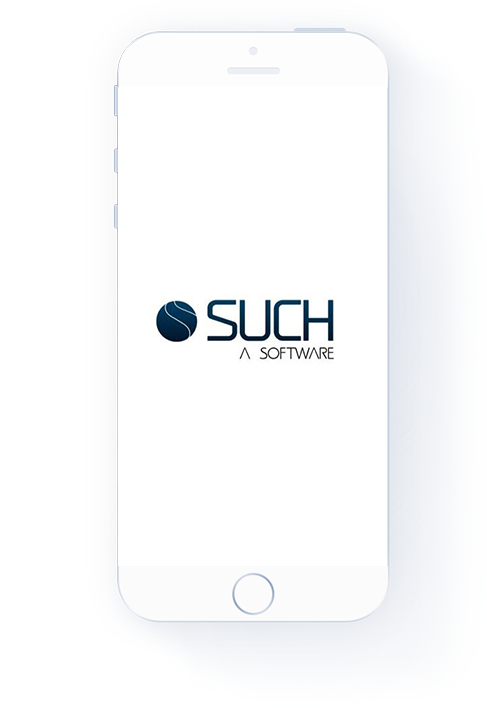
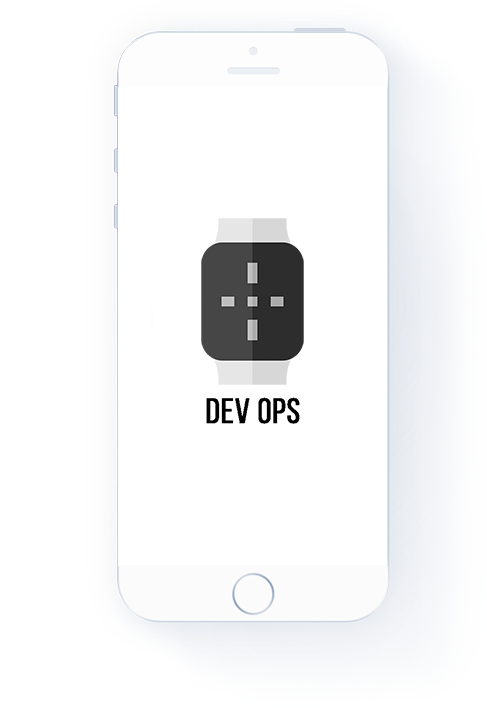
.

Changed region(s): [[0.308, 0.3107, 0.7084, 0.6215]]

diff --git a/src/app/components/template/products/products.component.html b/src/app/components/template/products/products.component.html
@@ -1,46 +1,45 @@
 <!--Section: Features v.3-->
 <div class="container-fluid team4">
-<section class="noMargin" id="products">
+  <section class="noMargin" id="products">
 
-    <div class="row pt-2" >
-  
+    <div class="row pt-2">
+
       <!--Grid column-->
       <div class="col-lg-5 text-center text-lg-left" id="laptop">
         <img src="assets/imgs/laptopSIS.png" alt="" class="img-fluid z-depth-0">
       </div>
       <!--Grid column-->
-  
+
       <!--Grid column-->
       <div class="col-lg-7" style="margin-top: 150px;">
         <!--Section heading-->
-        <h2 class="h2 py-1 font-weight-bold text-center">SIS Controladoras</h2>
+        <h2 class="h2 py-1 font-weight-bold text-center">Lorem ipsum</h2>
         <!--Section description-->
-        <p class="px-5 mb-5 pb-3 lead text-center">O SIS Controladoras é um Software ERP de gestão completo para Empresas
-            Controladoras de Pragas. Ele provê desde a prospecção de clientes, até a geração de boletos e notas fiscais e envio de
-        emails!</p>
-  
+        <p class="px-5 mb-5 pb-3 lead text-center">Lorem ipsum dolor sit amet, consectetur adipiscing elit. Cras
+          ullamcorper vel diam et varius. Suspendisse sed leo dictum, tincidunt mi id, varius massa.</p>
+
         <!--Grid row-->
-  
+
       </div>
       <!--Grid column-->
-  
+
     </div>
     <!--Grid row-->
     <div class="row">
-  
+
       <!--Grid column-->
-      <div class="col-lg-7" style="margin-top: 150px;"> 
+      <div class="col-lg-7" style="margin-top: 150px;">
         <!--Section heading-->
-        <h2 class="h2 py-1 font-weight-bold text-center">SIS Mobile 1.0 e 2.0</h2>
+        <h2 class="h2 py-1 font-weight-bold text-center">Lorem Ipsum</h2>
         <!--Section description-->
-        <p class="px-5 mb-5 pb-3 lead text-center">O Aplicativo SIS Mobile registra todos os dados operacionais dos
-            técnicos das empresas Controladoras de Pragas, e tudo é feito de forma offline, salvo de forma local, e sincronizado 
-            de volta para o Sistema Web ao retornar à empresa!
+        <p class="px-5 mb-5 pb-3 lead text-center">Lorem ipsum dolor sit amet, consectetur adipiscing elit. Cras
+          ullamcorper vel diam et varius. Suspendisse sed leo dictum, tincidunt mi id, varius massa.
         </p>
         <div style="text-align: center;">
-          <button mdbBtn type="button" class="rounded-pill morpheus-den-gradient" style="color: white;" mdbWavesEffect>Testar Grátis</button>
+          <button mdbBtn type="button" class="rounded-pill" color="black"
+            mdbWavesEffect>Testar Grátis</button>
         </div>
-  
+
       </div>
       <!--Grid column-->
       <!--Grid column-->
@@ -48,10 +47,10 @@
         <img src="assets/imgs/cellphoneSuch.png" alt="" class="img-fluid z-depth-0">
       </div>
       <!--Grid column-->
-  
+
     </div>
     <!--Grid row-->
-  
+
   </section>
 </div>
-  <!--Section: Features v.3-->
+<!--Section: Features v.3-->

diff --git a/src/app/components/template/footer/footer.component.html b/src/app/components/template/footer/footer.component.html
@@ -9,9 +9,9 @@
 
       <!-- Grid column -->
       <div class="col-md-3 col-lg-3 col-xl-3 mx-auto mt-3">
-        <h6 class="text-uppercase mb-4 font-weight-bold"><img src="assets/imgs/suchSoftwareNoBg.png"
-            height="70"></h6>
-        <p>Com anos de experiência no mercado de tecnologia, a Such a Software é especializada no desenvolvimento de
+        <h6 class="text-uppercase mb-4 font-weight-bold" style="text-align: center"><img src="assets/imgs/DevOpsLateral.png"
+            height="100"></h6>
+        <p>Com anos de experiência no mercado de tecnologia, a DevOps é especializada no desenvolvimento de
           softwares que simplificam e otimizam a gestão de empresas.
         </p>
       </div>
@@ -22,9 +22,6 @@
       <!-- Grid column -->
       <div class="col-md-2 col-lg-2 col-xl-2 mx-auto mt-3">
         <h6 class="text-uppercase mb-4 font-weight-bold">Produtos</h6>
-        <p>
-          <a href="https://siscontroladoras.com.br" target="_blank">SIS Controladoras</a>
-        </p>
       </div>
       <!-- Grid column -->
 
@@ -35,13 +32,13 @@
       <div class="col-md-4 col-lg-3 col-xl-3 mx-auto mt-3">
         <h6 class="text-uppercase mb-4 font-weight-bold">Contato</h6>
         <p>
-          <mdb-icon fas icon="home" class="mr-3"></mdb-icon> SHIN QI 11 Conjunto 10
+          <mdb-icon fas icon="home" class="mr-3"></mdb-icon> Lorem ipsum
         </p>
         <p>
-          <mdb-icon fas icon="envelope" class="mr-3"></mdb-icon> comercial@suchasoftware.com.br
+          <mdb-icon fas icon="envelope" class="mr-3"></mdb-icon> comercial@devops.com.br
         </p>
         <p>
-          <mdb-icon fas icon="phone" class="mr-3"></mdb-icon> 61 3254 1785
+          <mdb-icon fas icon="phone" class="mr-3"></mdb-icon> 61 9999 9999
         </p>
       </div>
       <!-- Grid column -->

diff --git a/src/app/components/template/services/services.component.html b/src/app/components/template/services/services.component.html
@@ -15,7 +15,7 @@
         <!--Section heading-->
         <h2 class="h2 py-1 font-weight-bold text-center">Sistemas Web</h2>
         <!--Section description-->
-        <p class="px-5 mb-5 pb-3 lead grey-text text-center">A Such a Software desenvolve tudo o que você precisa para
+        <p class="px-5 mb-5 pb-3 lead grey-text text-center">A DevOps desenvolve tudo o que você precisa para
           gerenciar com sucesso a gestão do seu negócio. Oferecemos funcionalidades que nenhuma
           outra plataforma do mercado oferece, além de inovações constantes que fazem toda a diferença
           para a gestão bem sucedida da sua empresa.</p>
@@ -48,7 +48,7 @@
         <!--Section description-->
         <p class="px-5 mb-5 pb-3 lead grey-text text-center">Tenha controle total da sua empresa na palma da mão! Os
           aplicativos
-          desenvolvidos pela Such a Software possibilitam:
+          desenvolvidos pela DevOps possibilitam:
         </p>
         <ul>
           <li>
@@ -64,7 +64,7 @@
           </li>
         </ul>
         <div style="text-align: center;">
-          <button mdbBtn type="button" class="rounded-pill morpheus-den-gradient" style="color: white;"
+          <button mdbBtn type="button" class="rounded-pill" color="black" style="color: white;"
             mdbWavesEffect>Veja um Exemplo</button>
         </div>
 

diff --git a/src/app/components/template/contact/contact.component.html b/src/app/components/template/contact/contact.component.html
@@ -38,7 +38,7 @@
                     </div>
                     <div class="col-lg-12">
                       <button type="submit"
-                        class="btn rounded-pill morpheus-den-gradient mt-3 mb-3 text-white border-0 py-2 px-3"><span> ENVIAR <i
+                        class="btn rounded-pill mt-3 mb-3 border-0 py-2 px-3" color="black"><span> ENVIAR <i
                             class="ti-arrow-right"></i></span></button>
                     </div>
                   </div>
@@ -49,10 +49,10 @@
               style="background-image:url(https://www.wrappixel.com/demos/ui-kit/wrapkit/assets/images/contact/1.jpg)">
               <div class="detail-box p-4">
                 <h5 class="text-white font-weight-light mb-3">ENDEREÇO</h5>
-                <p class="text-white op-7">SHIN QI 11 Conjunto 10
-                  <br> Lago Norte, DF</p>
+                <p class="text-white op-7">Lorem Ipsum
+                  <br> Lorem Ipsum</p>
                 <h5 class="text-white font-weight-light mb-3 mt-4">ENTRE EM CONTATO</h5>
-                <p class="text-white op-7">61 3254 1785
+                <p class="text-white op-7">Lorem Ipsum
                   <br> </p>
                 <div class="round-social light">
                   <a class="text-decoration-none text-white border border-white rounded-circle"><i

diff --git a/src/app/components/template/header/header.component.html b/src/app/components/template/header/header.component.html
@@ -4,7 +4,7 @@
     <mdb-navbar SideClass="navbar fixed-top navbar-expand-lg navbar-dark black scrolling-navbar intro-fixed-nav"
         [containerInside]="false">
         <mdb-navbar-brand>
-            <a class="logo navbar-brand" href="#"><strong>Such a Software</strong></a>
+            <a class="logo navbar-brand" href="#"><strong>DevOps Techno</strong></a>
         </mdb-navbar-brand>
         <links>
             <ul class="navbar-nav mr-auto">
@@ -58,7 +58,7 @@
                         <h4 class="display-4 font-weight-bold">Modernize sua empresa com os softwares mais
                             inovadores do mercado</h4>
                         <hr class="hr-light">
-                        <h6 class="mb-3">Com a Such a Software, você tem a possibilidade de ter tudo o que precisa para
+                        <h6 class="mb-3">Com a DevOps, você tem a possibilidade de ter tudo o que precisa para
                             modernizar a gestão do
                             seu negócio, diminuir seus custos e aumentar seus lucros. </h6>
                         <a mdbBtn color="white" outline="true" mdbWavesEffect href="#services">Saiba mais</a>

diff --git a/src/index.html b/src/index.html
@@ -3,7 +3,7 @@
 
 <head>
   <meta charset="utf-8">
-  <title>Such a Software | Desenvolvimento de Softwares</title>
+  <title>DevOps | Desenvolvimento de Softwares</title>
   <base href="/">
 
   <meta name="viewport" content="width=device-width, initial-scale=1">
